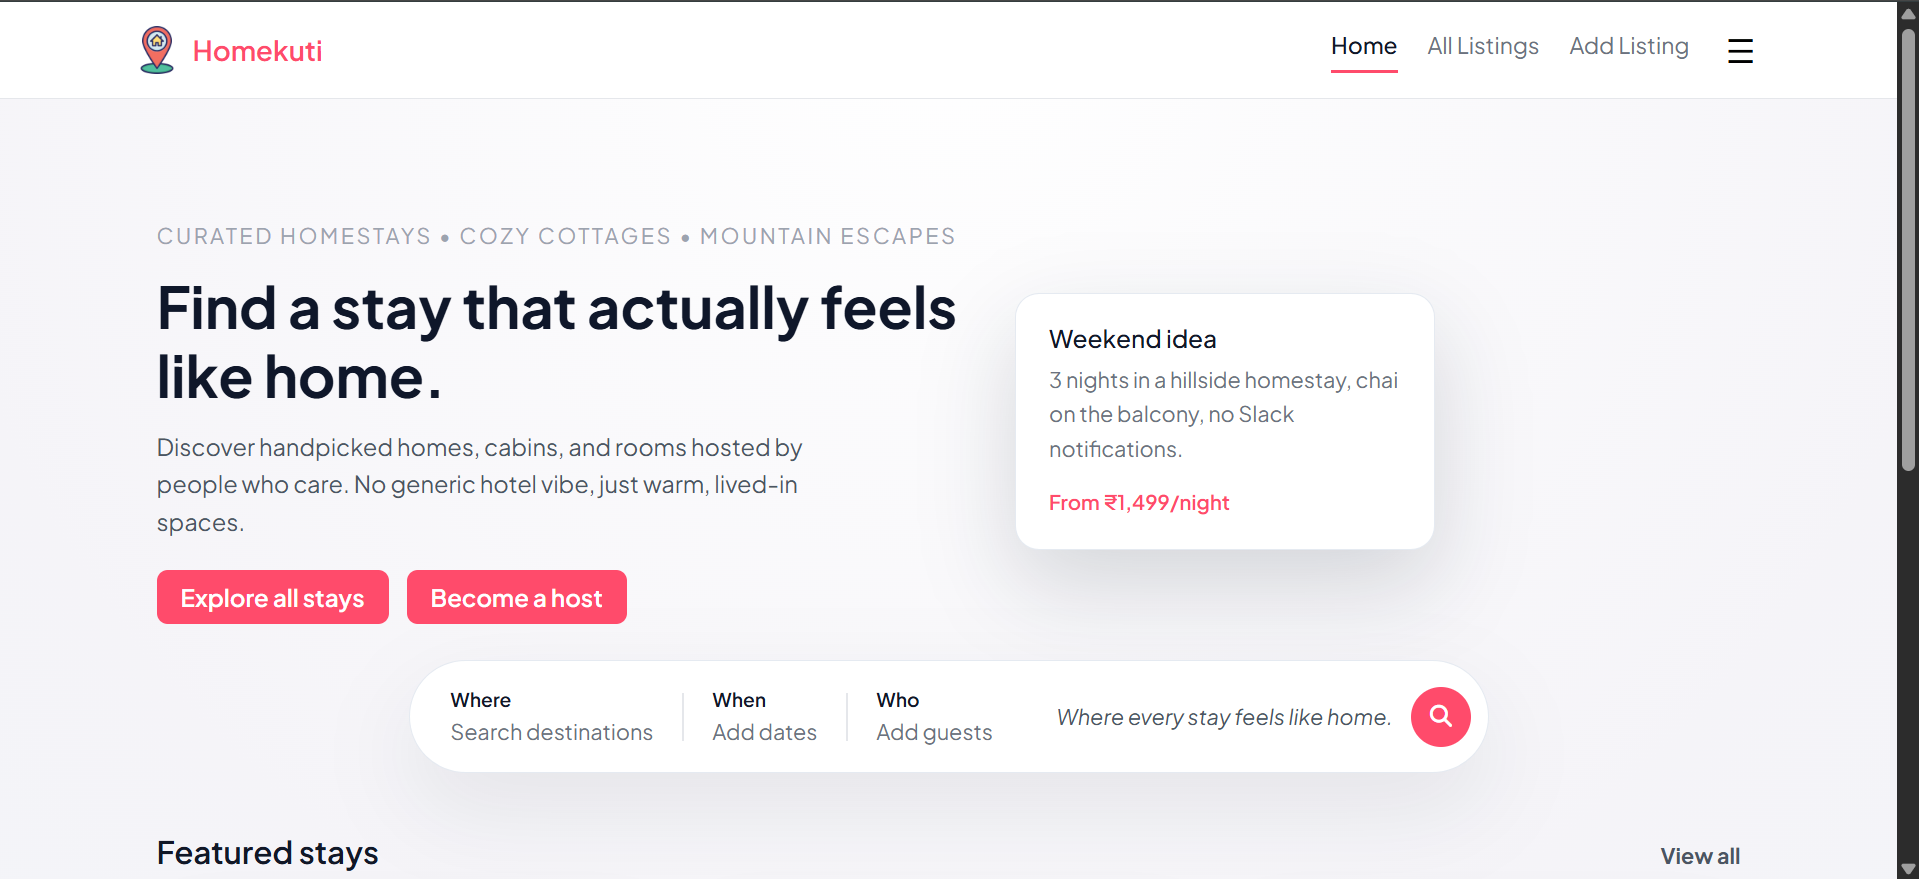
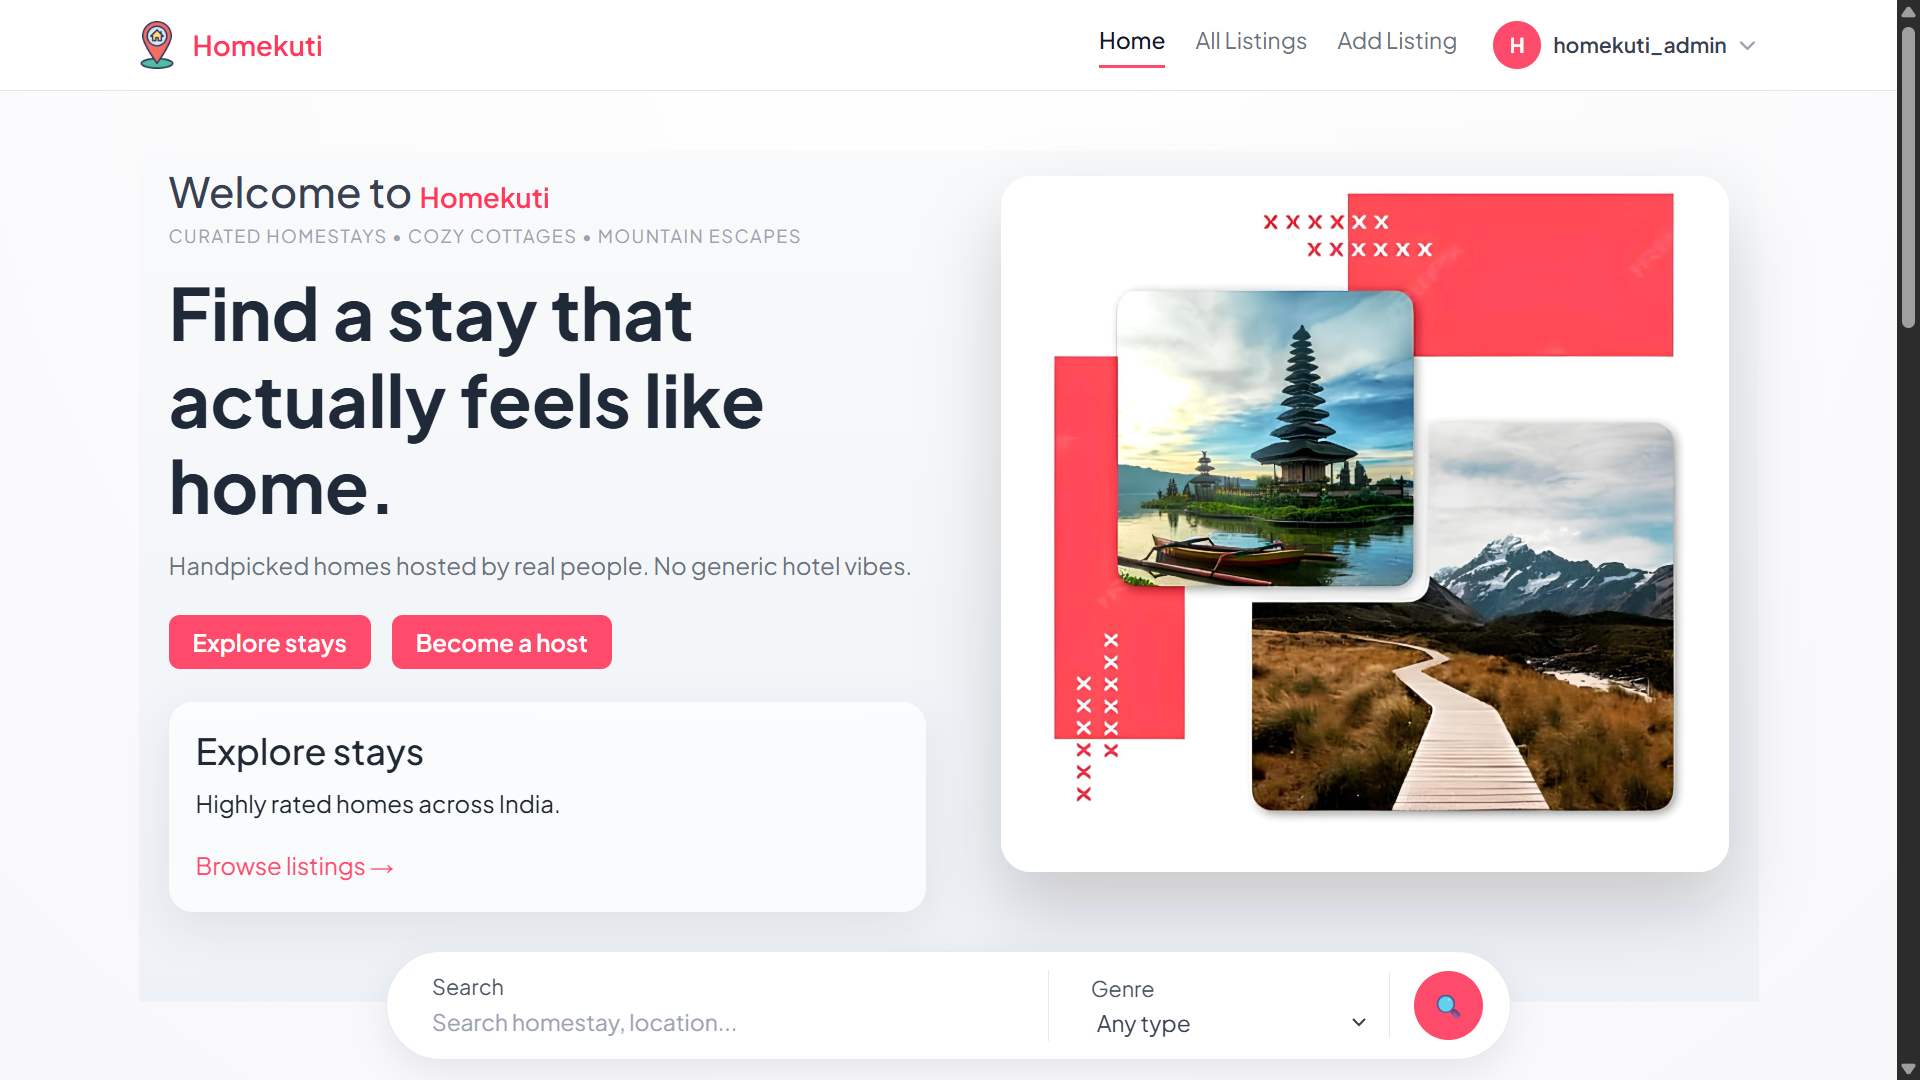
Updating Readme

diff --git a/README.md b/README.md
@@ -21,8 +21,9 @@
 
 ## 🏡 Overview
 
-**Homekuti** is a full-stack homestay listing platform inspired by modern booking systems.  
-Built using **Node.js, Express, MongoDB, and EJS**, it allows users to explore stays, manage listings, upload images, write reviews, and view locations on an interactive map.
+**Homekuti** is a full-stack homestay booking platform that enables users to discover, book, and manage stays with secure authentication, real-time availability, and seamless online payments.
+
+Built using a **scalable MVC architecture**, the platform focuses on reliability, user experience, and production-grade backend handling.
 
 Unlike basic CRUD apps, Homekuti implements:
 
@@ -36,91 +37,101 @@ Unlike basic CRUD apps, Homekuti implements:
 
 ## ✨ Key Features
 
-### 🔐 Authentication System
-- Passport.js local authentication
-- Session-based login
-- Flash messaging system
-- Protected routes
+### 🔐 Authentication & Security
+- Secure login using **Passport.js (Local Strategy)**
+- Session-based authentication with persistent login
+- Flash messaging for user feedback
+- Route protection & authorization middleware
+
+---
 
 ### 🏡 Listing Management
-- Create, edit, delete listings
-- Owner-based permissions
-- Cloudinary image upload
-- Automatic fallback image if upload fails
+- Full CRUD operations for listings
+- Ownership-based access control
+- Image uploads via **Cloudinary**
+- Automatic fallback image handling
 
-### 🗺 Smart Map Integration
-- Leaflet interactive map
-- Custom logo marker
-- Smart zoom logic
-- Default New Delhi fallback
-- India-wide view for approximate locations
+---
+
+### 🗺 Interactive Map Experience
+- Integrated **Leaflet.js** maps
+- Dynamic location rendering
+- Smart zoom control based on coordinates
+- Default fallback to New Delhi if location fails
+- India-wide view for approximate data
+
+---
 
 ### ⭐ Reviews & Ratings
-- Star rating system
-- Add & delete reviews
-- Ownership validation
+- Star-based rating system
+- Add/delete reviews functionality
+- Ownership validation for secure actions
 
-### ⚙ Error Handling & Stability
-- Centralized error handler
+---
+
+### ⚙ Robust Error Handling
+- Centralized error middleware
 - Mongoose validation handling
-- Multer upload safeguards
-- Graceful degradation strategy
+- Multer upload protection
+- Graceful failure recovery across services
 
 ---
 
 ## 🧠 Engineering Highlights
 
-### 📍 Graceful Degradation Strategy
+### 📍 Graceful Degradation (Production Mindset)
 
-If external services fail:
+When external services fail:
 
-- Listing still saves
-- Default coordinates used
-- India zoomed-out map view
-- “Approximate location” indicator shown
+- Listing creation still succeeds
+- Default coordinates applied
+- Map falls back to India view
+- UI shows “Approximate location”
 
-This mirrors real-world marketplace architecture.
+> 💡 Mirrors real-world fault-tolerant system design.
 
 ---
 
-### ☁ Cloudinary Integration
+### ☁ Fault-Tolerant Image Upload
 
-Uploads never block listing creation:
-
-- Successful upload → Cloudinary image used
-- Failure → Default image automatically applied
+- Cloudinary success → Image stored remotely
+- Failure → Default image assigned automatically
+- No user flow interruption
 
 ---
 
 ### 🧭 Clean MVC Architecture
 
+
 controllers → business logic
-models → database schema
-routes → request flow
-views → UI rendering
+models → schema & database
+routes → API flow
+views → UI rendering (EJS)
 utils → reusable helpers
 
+
+> 📌 Separation of concerns → scalable + maintainable codebase
 
 ---
 
 ## 🛠 Tech Stack
 
-| Layer | Technology |
-|------|------------|
-| Frontend | EJS, Bootstrap, Custom CSS |
-| Backend | Node.js, Express.js |
-| Database | MongoDB + Mongoose |
-| Auth | Passport.js |
-| Maps | Leaflet.js, LocationIQ |
-| Images | Cloudinary |
-| Sessions | express-session |
+| Layer        | Technology |
+|-------------|-----------|
+| Frontend    | EJS, Bootstrap, Custom CSS |
+| Backend     | Node.js, Express.js |
+| Database    | MongoDB, Mongoose |
+| Authentication | Passport.js |
+| Maps        | Leaflet.js, LocationIQ |
+| Image Storage | Cloudinary |
+| Sessions    | express-session |
 
 ---
 
 ## 📂 Project Structure
 
 ```text
-Project/
+Homekuti/
 ├── controllers/
 ├── middlewares/
 ├── models/
@@ -136,13 +147,20 @@ Project/
 ├── cloudConfig.js
 └── README.md
 ```
+
 ## 🖼 Screenshots 📸
+
+### 🏠 Homekuti Architecture Image
+![Homekuti Architecture Image](https://raw.githubusercontent.com/Chandrakant-Suman/Homekuti/main/public/images/Homekuti-Architecture-Image.png)
 
 ### 🏠 Home Page
 ![Homekuti Home Page](https://raw.githubusercontent.com/Chandrakant-Suman/Homekuti/main/public/images/demo-home.png)
 
-### 🏠 Listing Page
-![Homekuti Listing Page](https://raw.githubusercontent.com/Chandrakant-Suman/Homekuti/main/public/images/demo-listing.png)
+### 🏠 Listings
+![Homekuti All Listing Page](https://raw.githubusercontent.com/Chandrakant-Suman/Homekuti/main/public/images/demo-listing.png)
+
+### 🏠 Listing Details
+![Homekuti Listing Page](https://raw.githubusercontent.com/Chandrakant-Suman/Homekuti/main/public/images/demo-show.png)
 
 ### 🗺 Map View
 ![Homekuti Map View](https://raw.githubusercontent.com/Chandrakant-Suman/Homekuti/main/public/images/demo-map.png)
@@ -154,25 +172,23 @@ git clone https://github.com/Chandrakant-Suman/Homekuti.git
 cd Homekuti
 npm install
 npm start
-Server runs at:
-http://localhost:8000
----
-⚙ Environment Variables
-Create .env file:
 
-DB_URL=mongodb://127.0.0.1:27017/homekuti
-SESSION_SECRET=your_secret
-CLOUDINARY_CLOUD_NAME=your_cloud
-CLOUDINARY_KEY=your_key
-CLOUDINARY_SECRET=your_secret
+Server runs at:
+https://homekuti.onrender.com/
+
 ---
-📈 Future Enhancements
-Real geocoding API integration
-Booking system with date selection
-Payment gateway support
-Admin dashboard
-Advanced filtering & search
+
+## 📈 Future Enhancements
+
+- 🌍 High-precision geocoding integration for accurate location mapping  
+- 🛏 End-to-end booking system with real-time availability tracking  
+- 💳 Full payment gateway integration (Razorpay / Stripe)  
+- 🛠 Advanced admin dashboard with analytics & controls  
+- 🔍 Smart search with filters (price, location, category, ratings)  
+- 🧠 Enhanced system design features (scalability, caching, optimization)
+
 ---
+
 👨💻 Author
 Chandrakant Suman
 GitHub: https://github.com/Chandrakant-Suman
